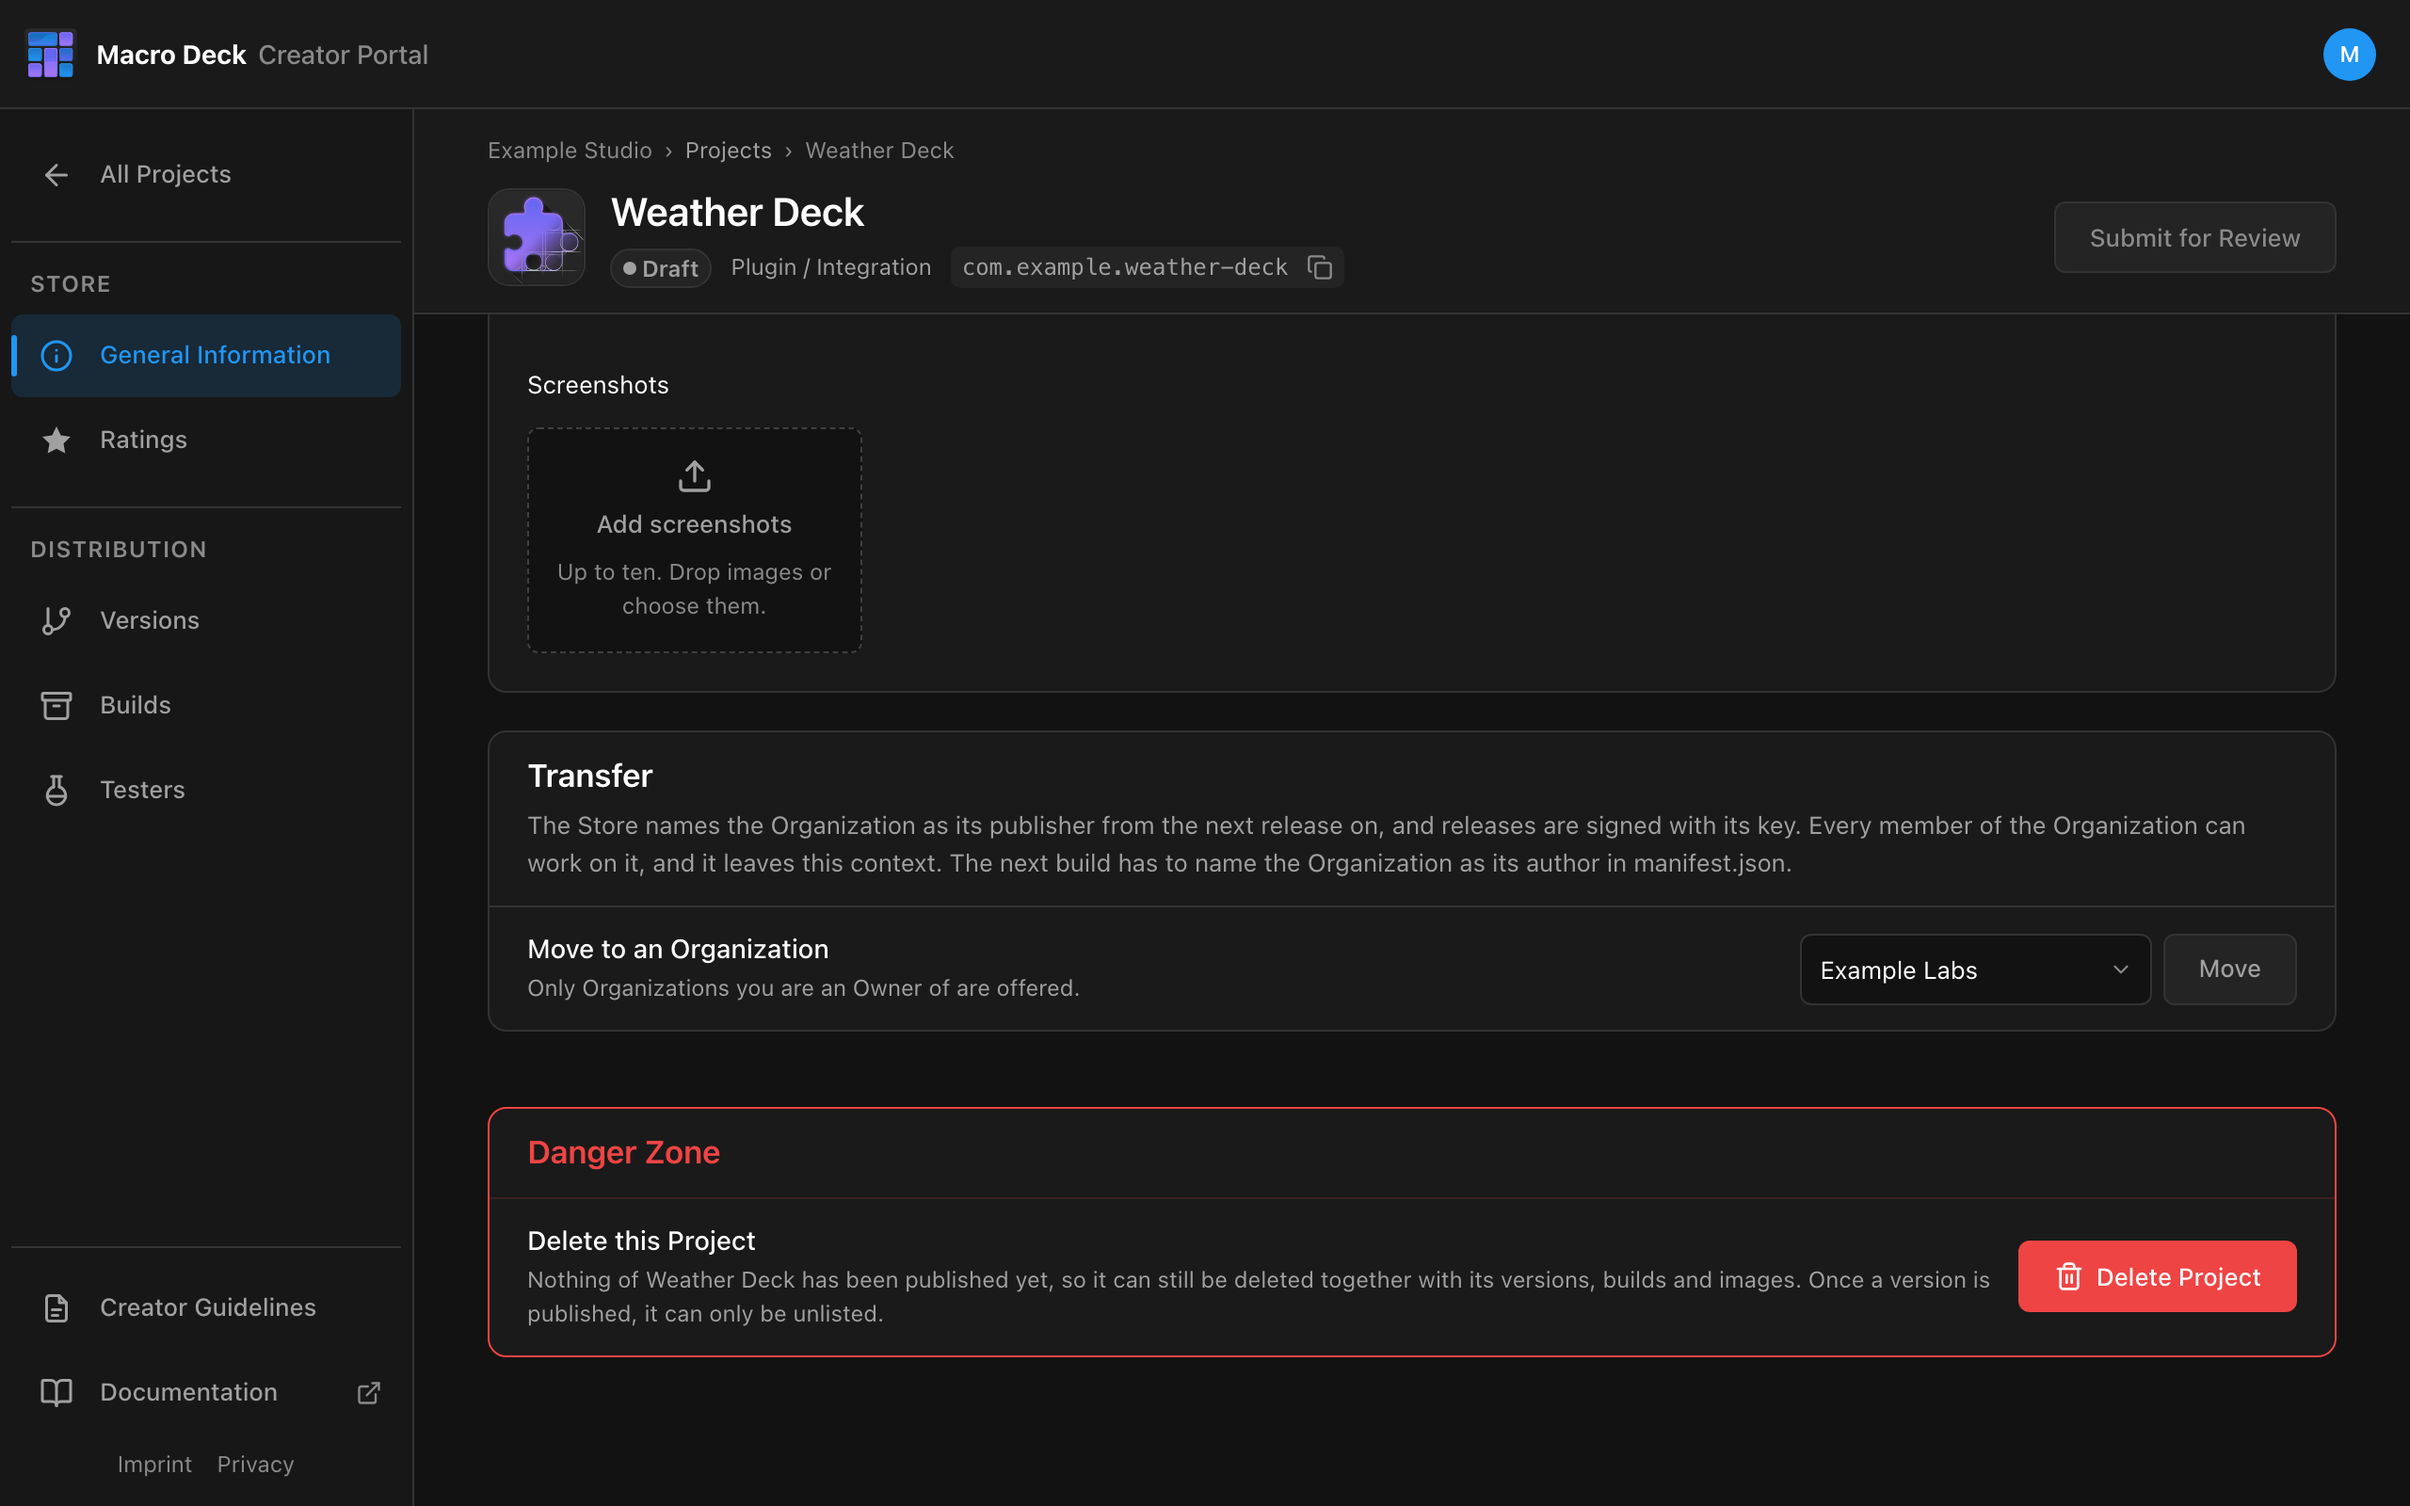
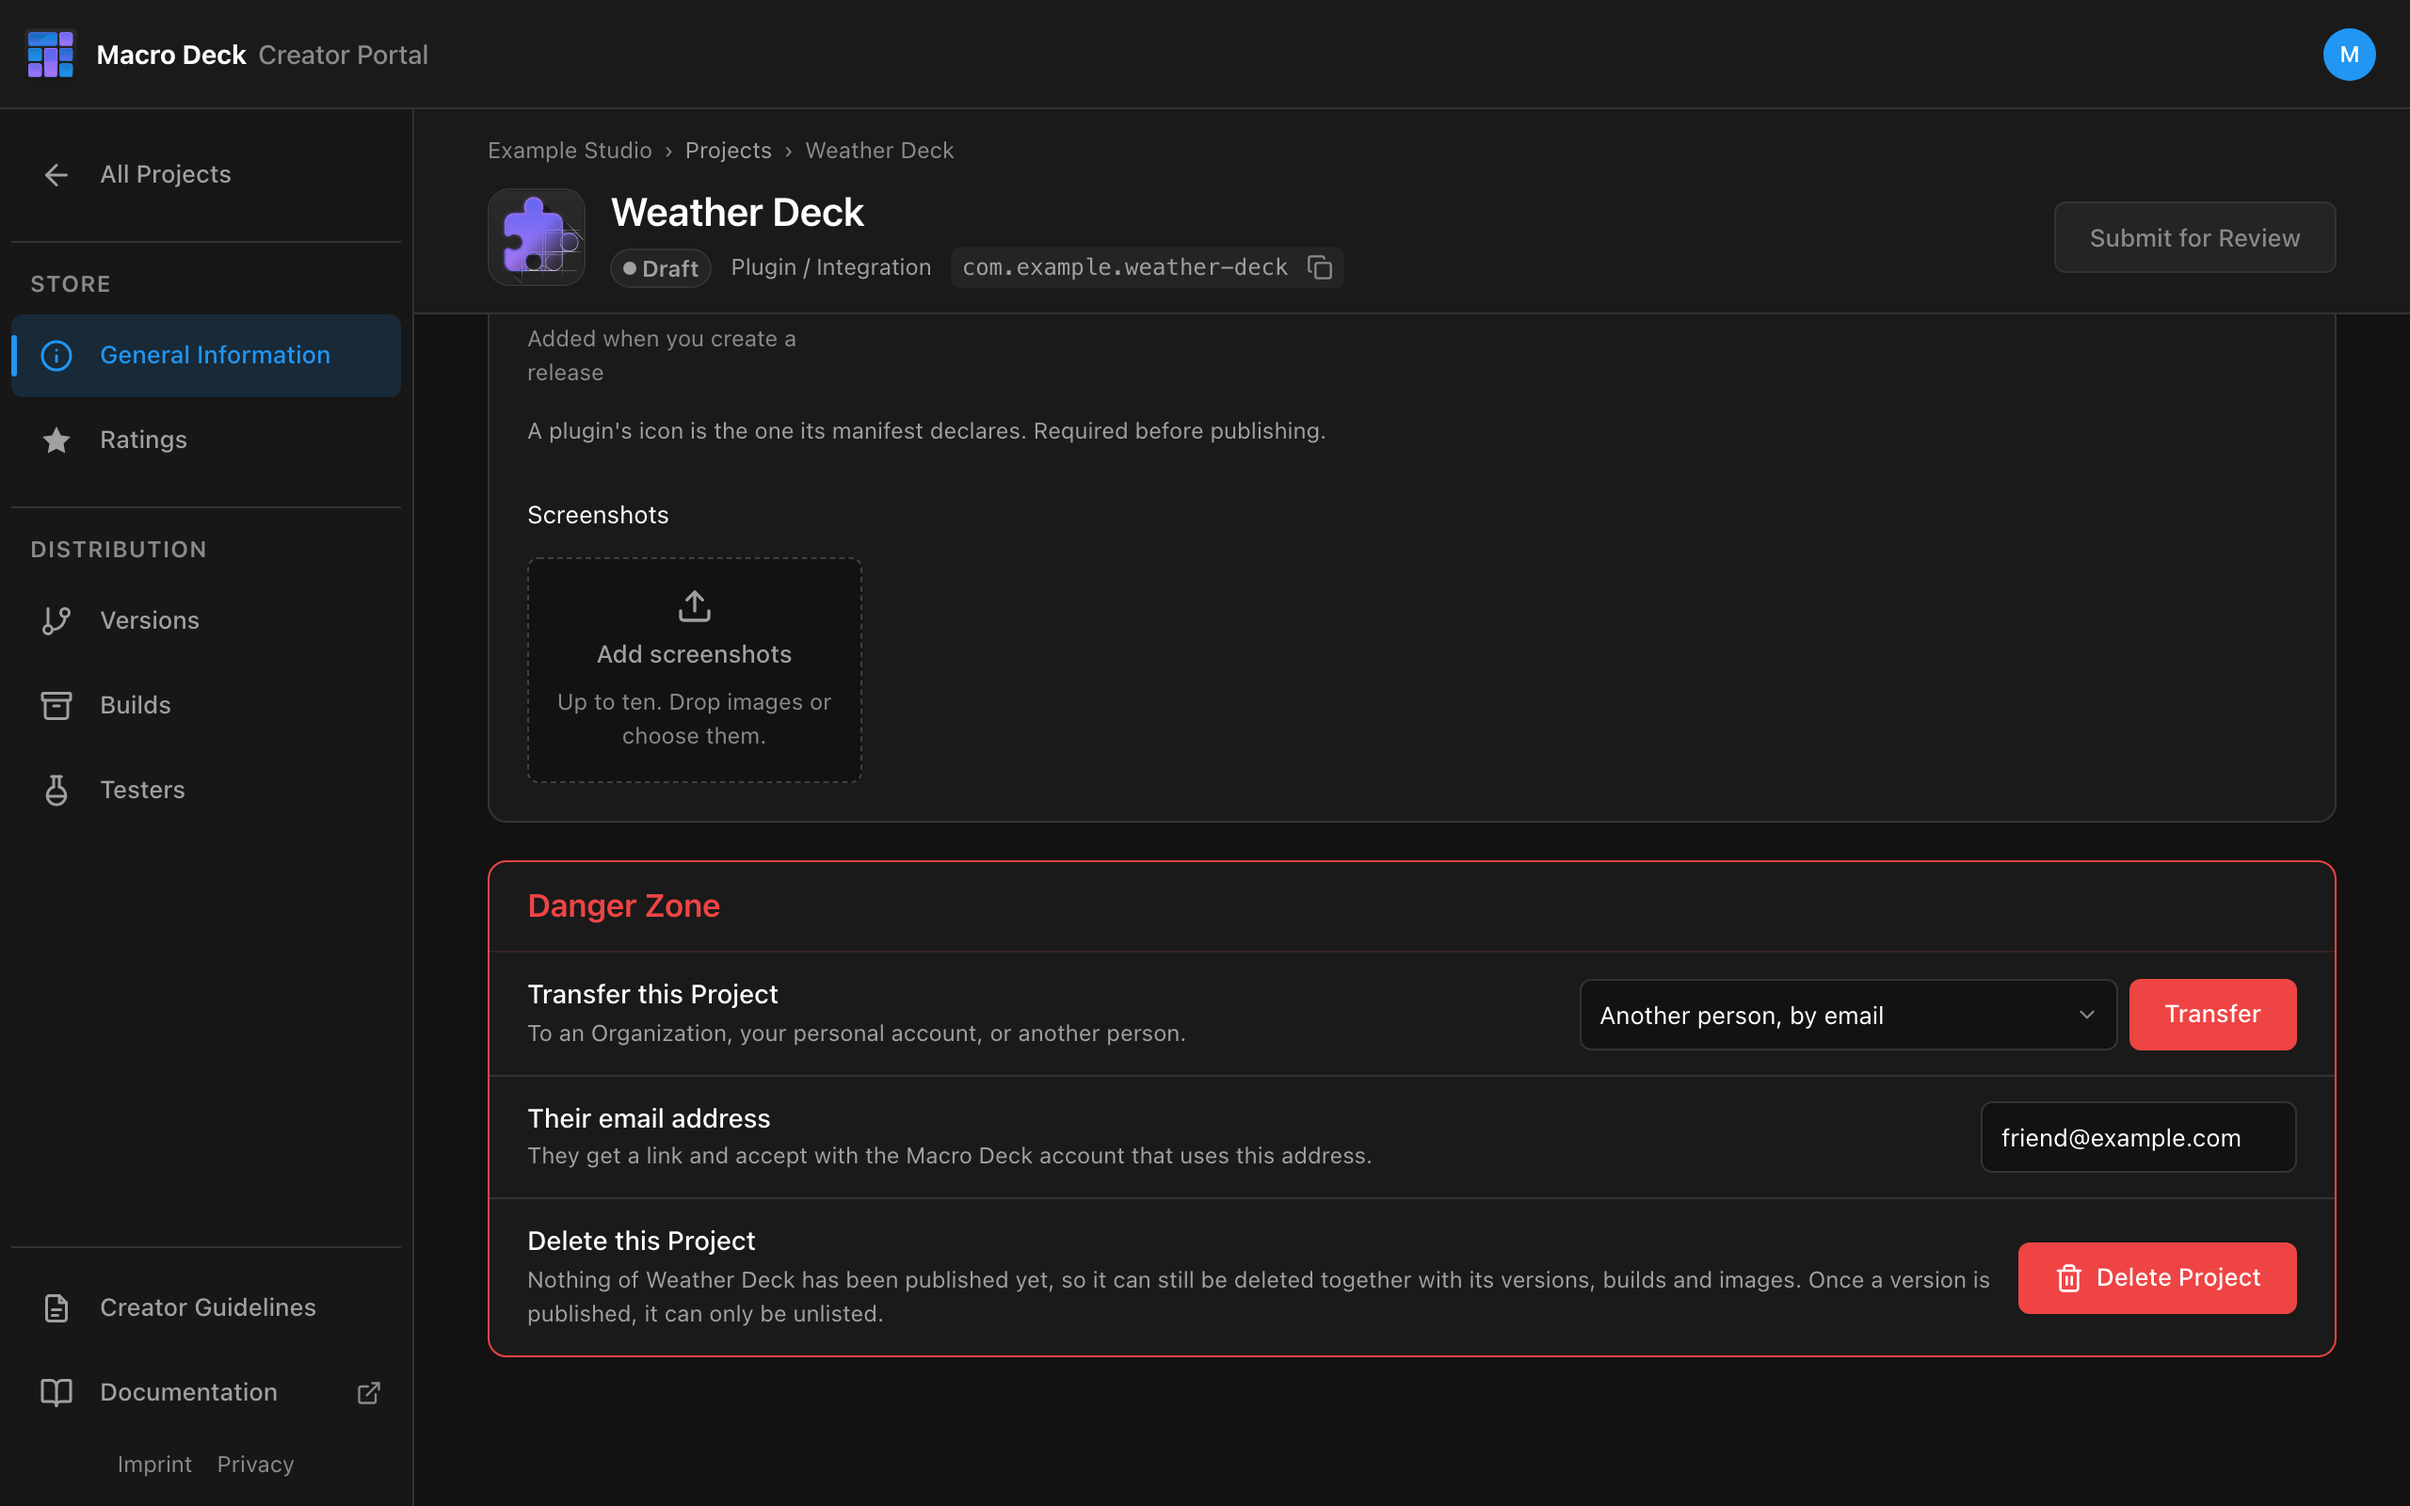
Document transferring a Project from the Danger Zone: into an Organization, the personal account, or to another person, and receiving an offer

diff --git a/docs/src/content/docs/creator-portal/projects.md b/docs/src/content/docs/creator-portal/projects.md
@@ -46,21 +46,59 @@ A Project starts as **Draft**. Nothing is public until a review is approved.
 A Project cannot be submitted without an icon. New images wait for review like the listing text.
 Reordering screenshots that were already approved takes effect immediately.
 
-## Move to an Organization
+## Transfer a Project
 
-A Project can move into an Organization you are an **Owner** of, so the Store publishes it under the
-Organization's name. Open **General Information**, choose the Organization under **Transfer** and
-select **Move**, then confirm with the Project's Display Name.
+Under **General Information**, the **Danger Zone** transfers a Project to another publisher. Only its
+owner can do this: you for your own Projects, the Owner for an Organization's. Choose where it goes,
+select **Transfer**, and confirm with the Project's Display Name. The confirmation spells out what
+changes.
 
-![The Transfer panel with Example Labs chosen and the Move button](../../../assets/creator-portal/project-transfer.png)
+![The Danger Zone with Transfer this Project, Another person by email chosen and an email address](../../../assets/creator-portal/project-transfer.png)
 
-- The Store shows the Organization as publisher from the next release on, and releases are signed
-  with the Organization's key. The Package ID stays the same, so installed copies keep updating.
-- For a plugin, the next build must name the Organization as `publisher.name` in its `manifest.json`.
-- Every member of the Organization can work on the Project. It leaves your personal context.
-- Only your own Project, or one in an Organization you own, can be moved.
-- A Project cannot move while a review is in progress, an approved version waits to be released, or
-  a Store change is still running.
+| Where to | What happens |
+| --- | --- |
+| An Organization you own | It moves at once. |
+| Your personal account (from an Organization you own) | It moves at once. |
+| An Organization you are a Member of | Its Owner has to accept. Once they do, the Owner decides over the Project; you keep working on it as a Member. |
+| Another person, by email | They get a link and accept with the Macro Deck account that uses this address. You lose access once they do. |
+
+Until an offer is answered, the Project stays where it is and the Danger Zone shows it. **Withdraw
+offer** takes it back. An offer expires after 14 days, and you are notified when it is accepted or
+declined.
+
+![The Danger Zone showing an offer to friend@example.com that waits for acceptance, with Withdraw offer](../../../assets/creator-portal/project-transfer-offered.png)
+
+After a transfer:
+
+- The Package ID stays the same, so installed copies keep updating.
+- The Store shows the new publisher from the next release on, and releases are signed with the new
+  publisher's key.
+- For a plugin, the next build must name the new publisher as `publisher.name` in its `manifest.json`.
+- It leaves the previous context. Everyone with access there, an Organization's Members included, loses it.
+
+A transfer is refused while a review is in progress, an approved version waits to be released, or a
+Store change is still running.
+
+### Receiving a Project
+
+An Owner finds offers for their Organization on the **Dashboard** under **Transfer offers**, where
+they **Accept** or **Decline** them.
+
+![Transfer offers on the Dashboard: Weather Station into Example Labs, with Decline and Accept](../../../assets/creator-portal/transfer-offers.png)
+
+An offer to a person arrives as an email with a link. It only works for the Macro Deck account whose
+verified email address it was sent to, and that account needs a Creator profile.
+
+![The transfer offer page: Take over Clock Deck, with the Project, who offered it, the expiry, Decline and Accept the Project](../../../assets/creator-portal/transfer-offer-link.png)
+
+When a Project comes to you from another person, nothing of theirs comes along:
+
+- Its testers and open tester invitations are removed.
+- A plugin's repository has to be [connected again](/creator-portal/publish-plugin/#change-the-repository)
+  by you, with your own GitHub access, before builds are taken from it. If the repository is not yours on GitHub yet,
+  have its previous owner transfer it to you there first.
+- Builds uploaded before the transfer cannot become your version; upload a new one.
+- It cannot be transferred to a person while a version is in preparation.
 
 ## Delete or unlist
 

diff --git a/docs/src/content/docs/creator-portal/publish-plugin.md b/docs/src/content/docs/creator-portal/publish-plugin.md
@@ -41,6 +41,8 @@ a GitHub organization or renamed it.
   fine, a different repository is refused. **Disconnect** is no longer offered.
 - Upload a new build afterwards. Builds from before the move name the old location in their
   `manifest.json` and do not pass review.
+- After a Project was [transferred to you](/creator-portal/projects/#transfer-a-project) by another
+  person, builds are refused until you connect its repository again here.
 
 ## 2. Add the release workflow
 
